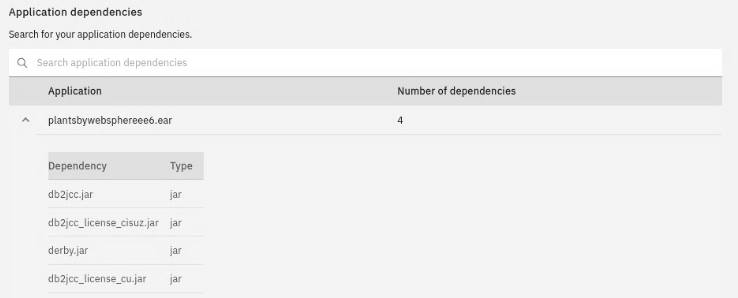
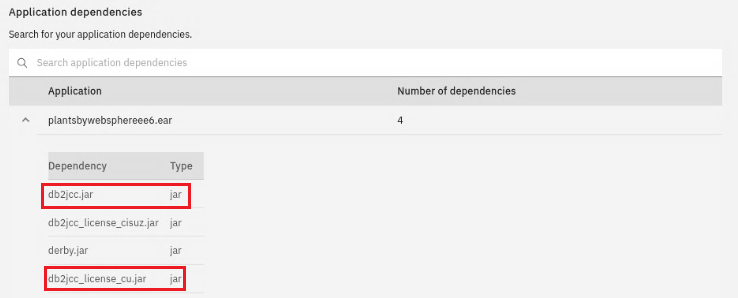
Update 2.0

Changed region(s): [[0.0312, 0.604, 0.2805, 0.7248], [0.0623, 0.9664, 0.2493, 0.9966], [0.0623, 0.8758, 0.2493, 0.906]]

diff --git a/README.md b/README.md
@@ -256,7 +256,7 @@ A `workspace` is a designated area that will house the migration recommendations
 
 ## 1.4 Analyze the plantsbywebsphereee6 application
 
- Application Modernization Accelerator provides detailed information about each application that has been analyzed. This application has a complexity of **`Simple`**.
+ Application Modernization Accelerator provides detailed information about each application that has been analyzed. This application **plantsbywebsphereee6.ear** has a complexity of **`Simple`**.
  
  **Simple** means:
  
@@ -292,9 +292,9 @@ A `workspace` is a designated area that will house the migration recommendations
 
     ![](./images/media/image22.png)
 
-2. At the bottom of the screen, there is a `Application Dependencies` section. 
+2. At the bottom of the screen, there is an `Application dependencies` section. 
     
-    This shows all the files, in addition to the application, that are required for a deployment. **Plantsbywebspheeee6.ear** has two dependencies.
+    This shows all the files, in addition to the application, that are required for a deployment. **Plantsbywebspheeee6.ear** has four dependencies.
 
     a. Expand the section it to see the details
 
